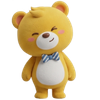
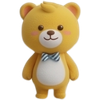
update image

diff --git a/src/animation_manager.py b/src/animation_manager.py
@@ -29,8 +29,8 @@ class AnimationManager(QObject):
         self.timer.timeout.connect(self.update_frame)
         
         self.load_assets()
-        # Set animation speed to 40ms (25 FPS) untuk 24 frame yang sangat smooth
-        self.timer.start(40)
+        # Set animation speed to 80ms (12.5 FPS) yang merupakan standar animasi 2D yang pas di mata
+        self.timer.start(230)
         
     def load_assets(self):
         """Loads PNG assets for each state into memory."""
@@ -54,15 +54,26 @@ class AnimationManager(QObject):
         if new_state in self.frames and self.current_state != new_state:
             self.current_state = new_state
             self.current_frame_index = 0
+            self.animation_direction = 1
             
     def update_frame(self):
         state_frames = self.frames[self.current_state]
         if not state_frames:
             return
             
-        # Karena Anda membuat 24 frame (animasi utuh), kita kembali gunakan putaran normal
-        # agar animasinya berputar dari frame 1 ke 24 lalu kembali ke 1.
-        self.current_frame_index = (self.current_frame_index + 1) % len(state_frames)
+        if len(state_frames) == 1:
+            self.current_frame_index = 0
+        else:
+            direction = getattr(self, "animation_direction", 1)
+            self.current_frame_index += direction
+            
+            # Memakai efek Ping-Pong: agar perputaran dari frame 24 ke frame 1 tidak patah / melompat drastis (yang bikin terlihat aneh)
+            if self.current_frame_index >= len(state_frames) - 1:
+                self.current_frame_index = len(state_frames) - 1
+                self.animation_direction = -1
+            elif self.current_frame_index <= 0:
+                self.current_frame_index = 0
+                self.animation_direction = 1
                 
         pixmap = state_frames[self.current_frame_index]
         self.frame_updated.emit(pixmap)
